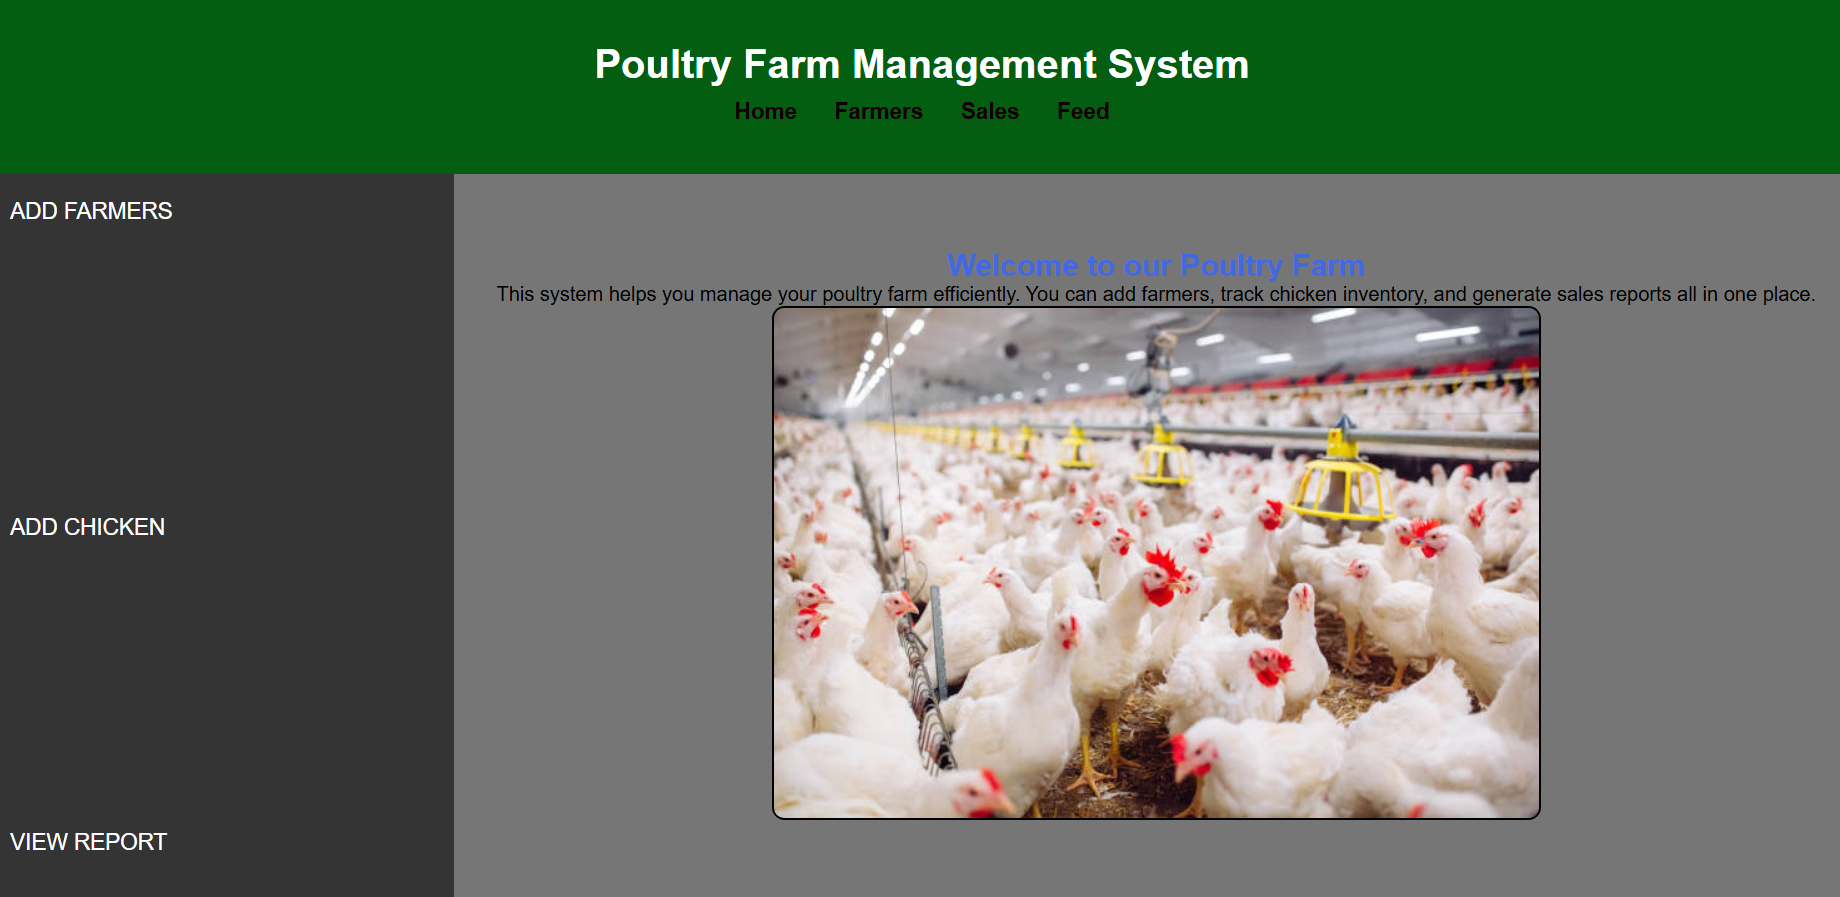
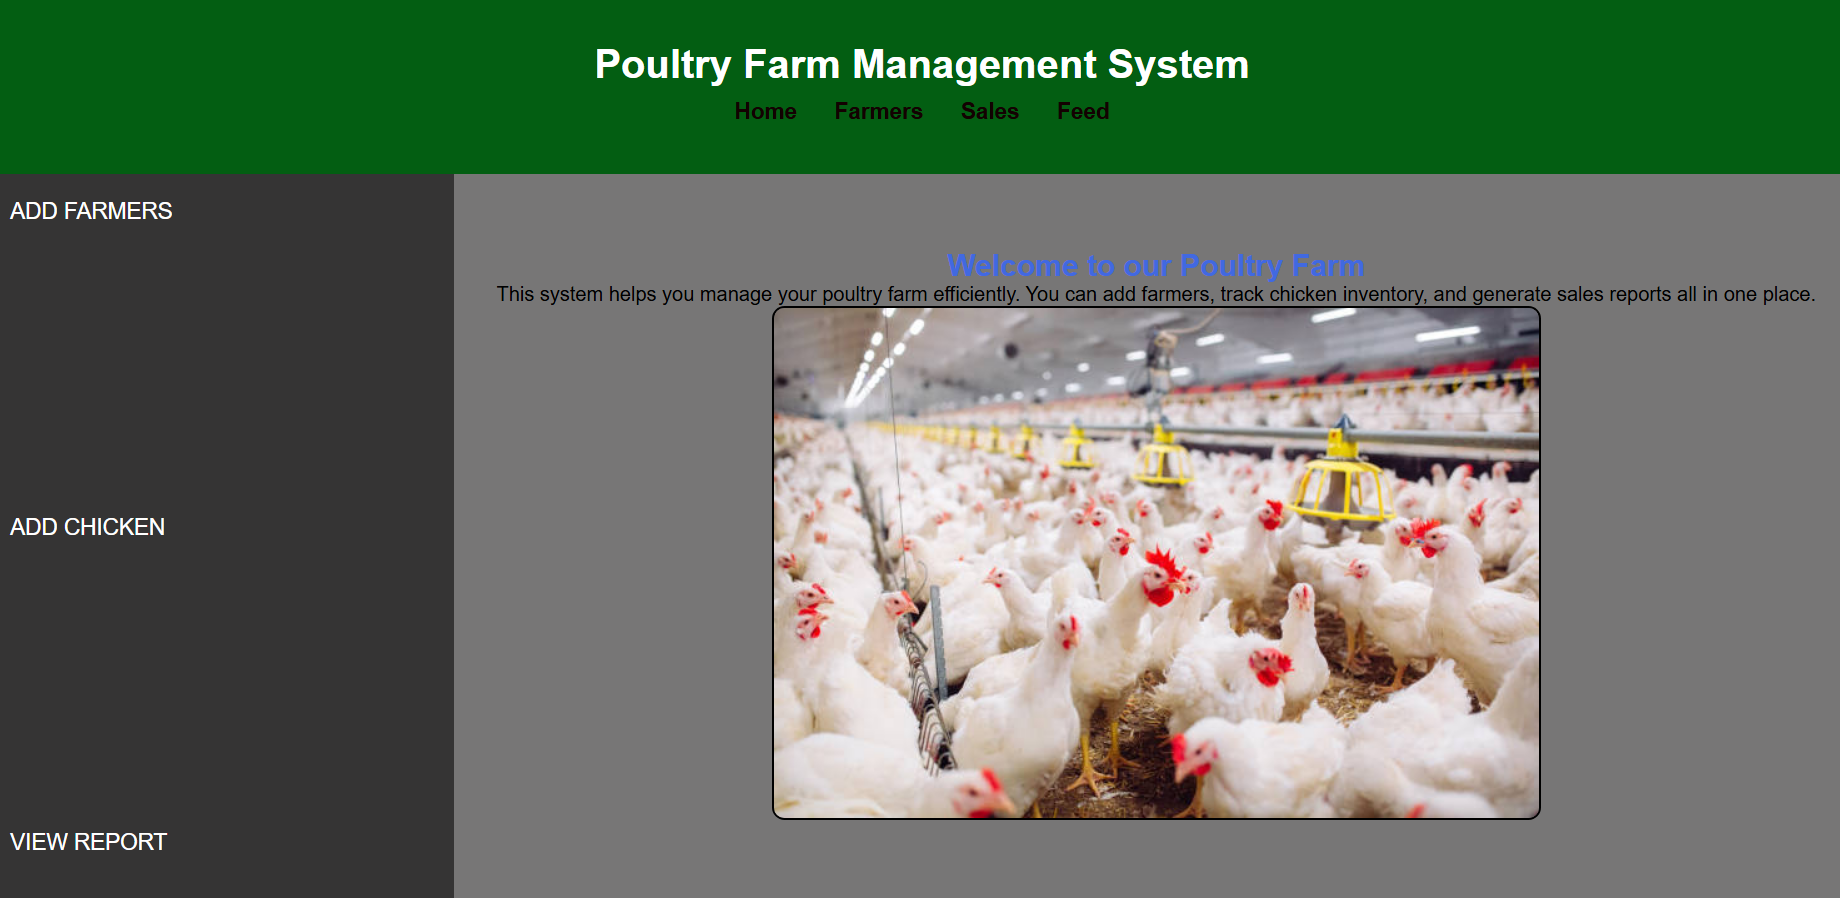
merged remote changes into main

diff --git a/index.html b/index.html
@@ -26,7 +26,7 @@
     <h1>MILLICENT'S PORTFOLIO</h1>
     <div class="intro-section">
       <div class="intro-image">
-        <img class="profile-img" src="images/cute1.jpg" alt="Profile Image">
+        <img class="profile-img" src="images/milly.jpg" alt="Profile Image">
       </div>
       <div class="intro-text">
         <p>
@@ -278,7 +278,10 @@
         </section>
         <section class="contact-form">
           <h3>Send a message</h3>
-          <form>
+         
+            <form action="https://formspree.io/f/myknnjer" method="post">
+
+
             <label for="name">Name</label>
             <input id="name" type="text" placeholder="Full Name" required>
             <label for="email">Email</label>

diff --git a/style.css b/style.css
@@ -638,6 +638,3 @@ html {
   transform: scale(1.2);
   box-shadow: 0 4px 12px rgba(0,0,0,0.3);
 }
-
-
-